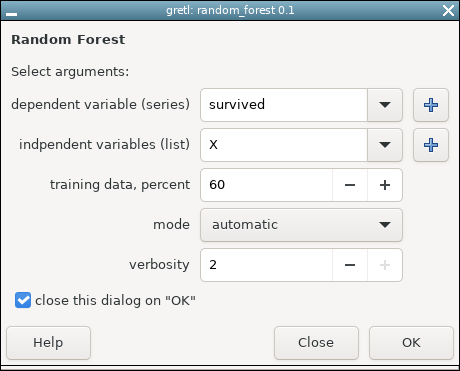
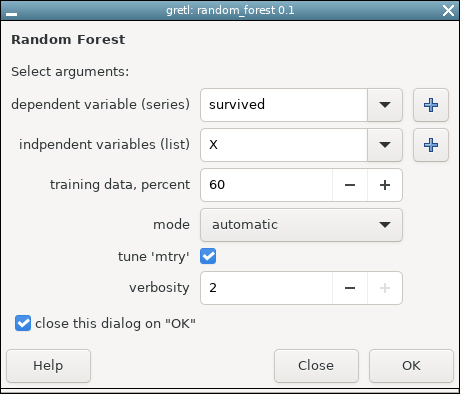
updates towards a release

diff --git a/randforest/doc/random_forest.tex b/randforest/doc/random_forest.tex
@@ -66,8 +66,8 @@ bundle random_forest (list L, const bundle opts)
 %
 This means that it returns a bundle and has two required arguments, a
 list and a bundle. The list argument should be in standard gretl
-``regression list'' format: the dependent variable followed by one or
-more independent variables (or ``features'' as they're known in the
+``regression list'' format: the dependent variable followed by the
+independent variables (or ``features'' as they're known in the
 machine-learning world). The \texttt{opts} bundle has just one
 required member: under the key \texttt{n\_train} you must tell gretl
 how many of the available observations should be used for training.
@@ -151,12 +151,23 @@ bundle opts = _(n_train=900, seed=777778)
 bundle rfb = random_forest(L, opts)
 \end{code}
 %
-So we're using six of the covariates,\footnote{The \texttt{age}
-  variable is potentially useful but is missing in 263 cases so we
-  omitted it here.}  selecting the first 900 records for training,
-setting a random seed for replicability (this seed will be used by
-\textsf{R}), and implicitly accepting the default values for
-classification mode, \texttt{tune} and \texttt{verbose}.
+So we're using six of the covariates, selecting the first 900 records
+for training, setting a random seed for replicability (this seed will
+be used by \textsf{R}), and implicitly accepting the default values
+for classification mode, \texttt{tune} and \texttt{verbose}.
+
+Two of the available covariates in \texttt{titanic3} dataset call for
+some discussion. First, \texttt{embarked} is an encoding of a purely
+qualitative characteristic: the port at which the passenger
+embarked. Variables of this sort are automatically converted into a
+set of 0/1 dummies ($m-1$ of them, if the variable has $m$ distinct
+values) before being passed to \texttt{R}. Second, \texttt{age} (the
+age of the passenger in years) is a plausible predictor of survival
+but unfortunately this datum is missing in 263 cases. At present
+missing values are not allowed in the sample passed to the package,
+and we have omitted \texttt{age} from the specification. However, to
+include \texttt{age} one could first sub-sample to omit any missing
+observations then pass the reduced sample to \texttt{random\_forest}.
 
 Partial output from the sample script is shown in
 Listing~\ref{output}.
@@ -229,12 +240,12 @@ error, and \texttt{MAPE} = mean absolute percentage error.
 \section{GUI usage}
 
 On installing the package you should be given the option of adding a
-hook named \textsf{Random Forest} to gretl's \textsf{Model} menu, under
-the \textsf{Robust estimation} sub-menu. This hook brings up a
-dialog box in which you can select the various inputs described above
+hook named \textsf{Random Forest} to gretl's \textsf{Model} menu,
+under the \textsf{Robust estimation} sub-menu. This hook brings up a
+dialog box in which you can specify most of inputs described above
 (Figure~\ref{fig:dialog}). Clicking \textsf{OK} in this dialog will
 open a window displaying the results of estimation and allowing you to
-save the results bundle and/or any of its contents.
+save the results bundle or any of its contents.
 
 \begin{figure}[htbp]
   \centering
@@ -250,6 +261,32 @@ save the results bundle and/or any of its contents.
 \section{Some \textsf{R} details}
 \label{sec:Rdetails}
 
-To be written.
+As noted above, this gretl package requires version 4.7-1.1 of the
+\textsf{randomForest} package, which in turn requires \textsf{R} 4.1.0
+or higher. As of this writing it is verified as working with
+\textsf{R} 4.2.1 and 4.2.2. It is straightforward to install
+\textsf{R} for most platforms: see
+\url{https://cran.r-project.org/}. Having done so one can then install
+\textsf{randomForest} using the \textsf{R} command:
+\begin{code}
+install.packages("randomForest")
+\end{code}
+This should take care of installing the other \textsf{R} packages on
+which \textsf{randomForest} depends if they're not already present on
+the local machine.
+
+We mentioned above that gretl by default calls \textsf{randomForest}'s
+\texttt{tuneRF} function to optimize its \texttt{mtry}
+parameter. We're aware that the \textsf{caret} package for \textsf{R}
+offers a variety of means of tuning machine-learning algorithms,
+including Random Forests, but chose not to build in support for
+\textsf{caret} in this offering. That's because our (admittedly
+limited) testing led to the conclusion that \texttt{tuneRF} is about
+equally effective but also because \textsf{caret} has a very hefty
+list of dependencies, and its complexity seems inconsistent with our
+wish to offer a relatively quick and easy route to the exploration of
+Random Forests. That said, it's possible that a future version of this
+package might add some degree of \textsf{caret} support if a demand
+is evident.
 
 \end{document}
